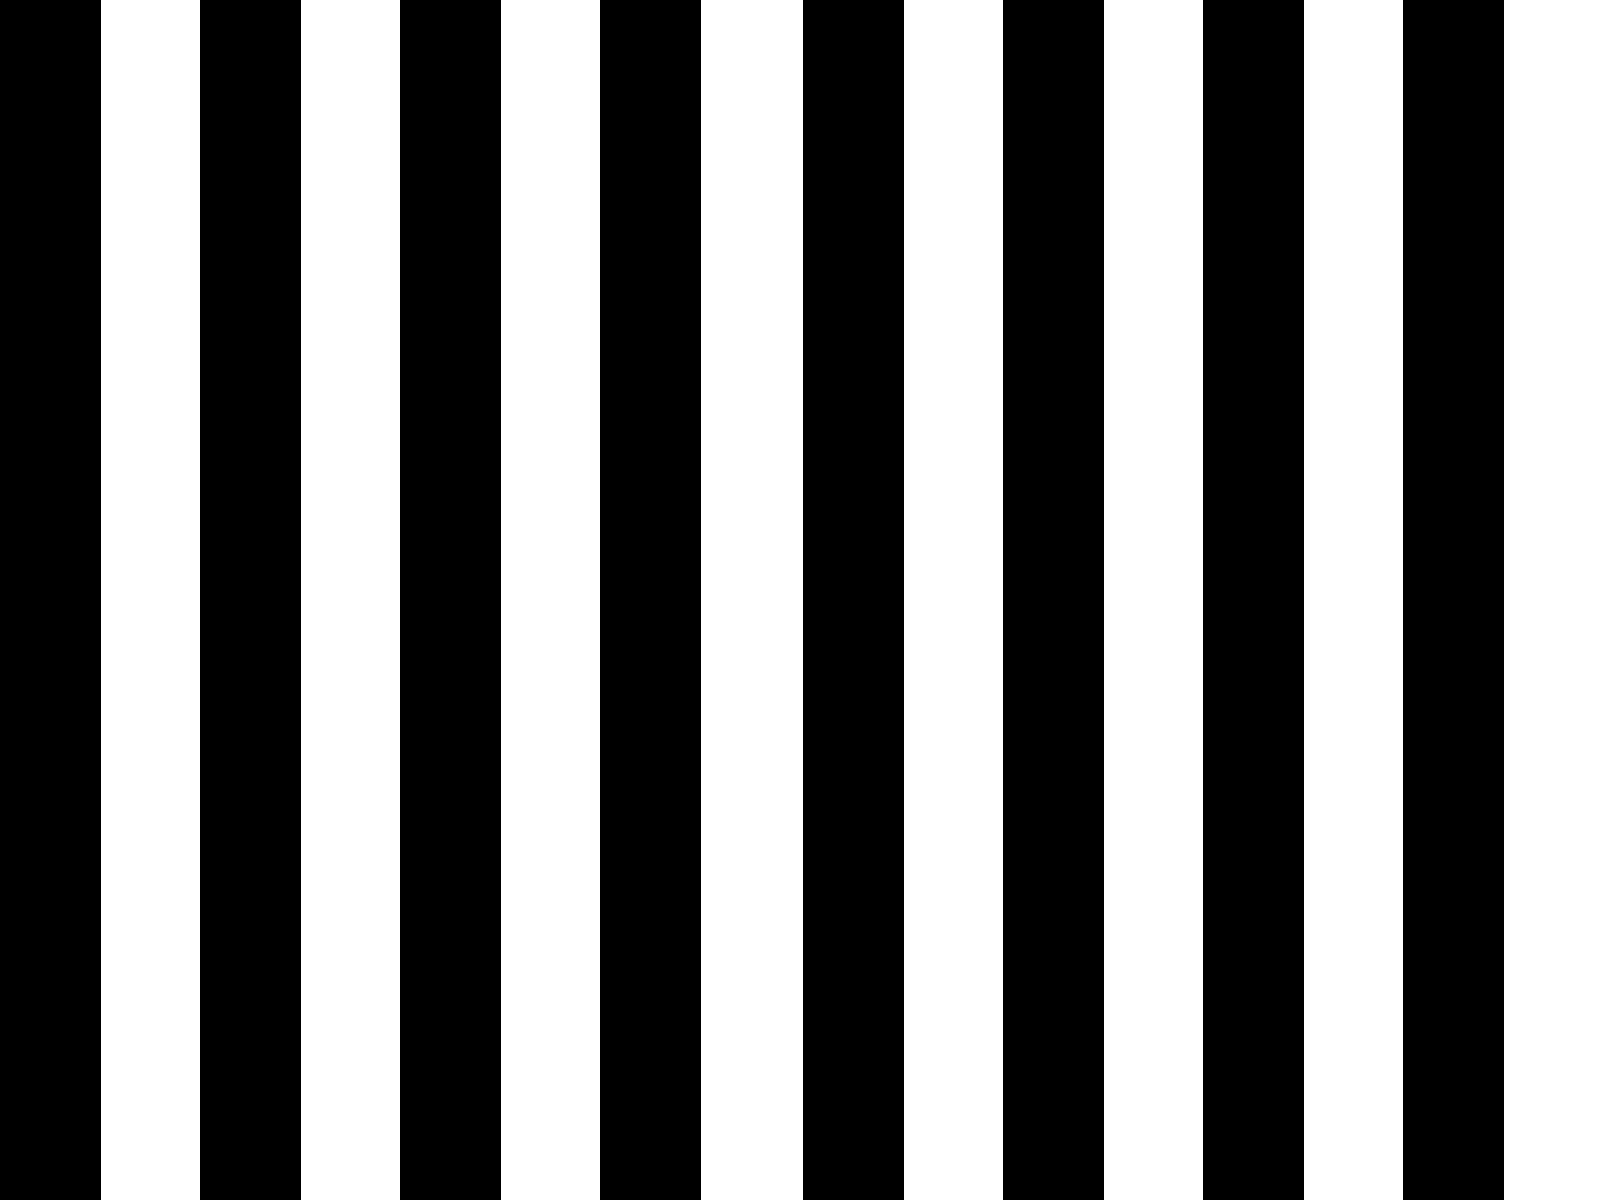
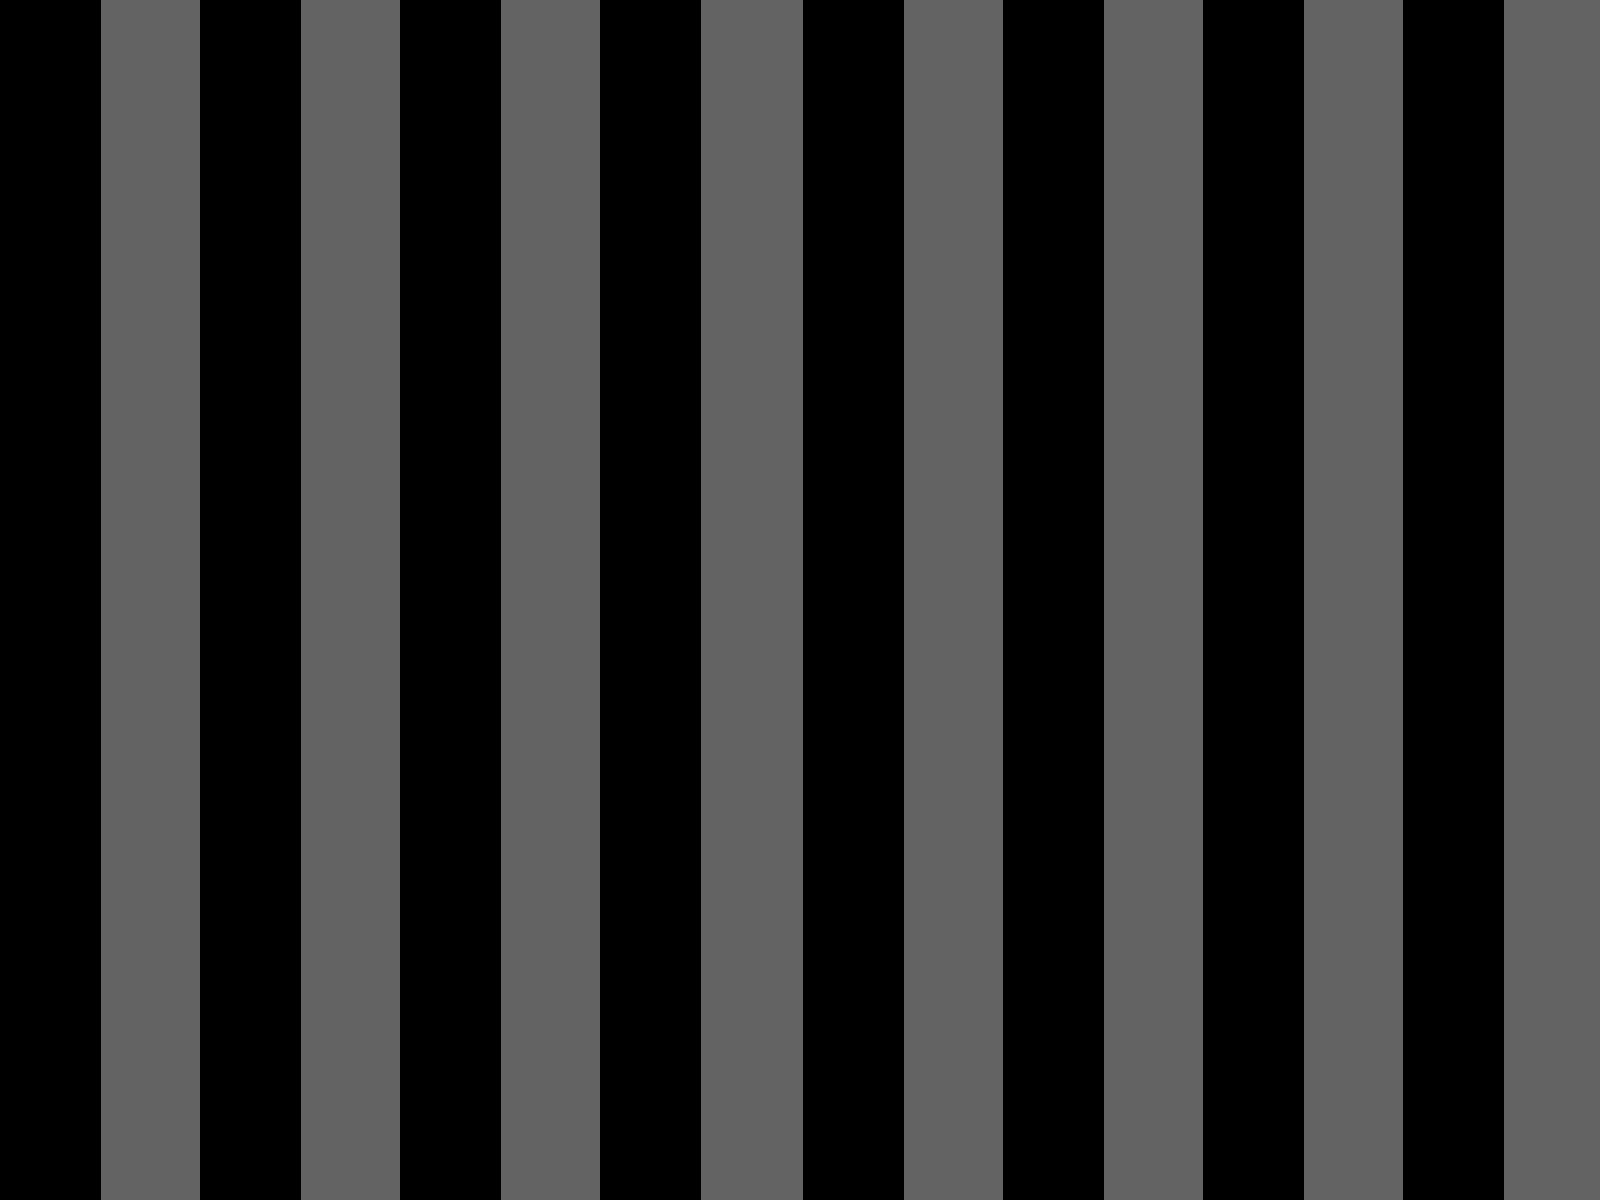
created a first preview of the scoring system (it may be improved in the next commits) and changed the background image

diff --git a/src/game/scoring.cpp b/src/game/scoring.cpp
@@ -1,0 +1,89 @@
+
+
+/*
+*
+*	Copyright (C)  Luxon Jean-Pierre
+*	gumichan01.olympe.in
+*
+*
+*	Luxon Jean-Pierre (Gumichan01)
+*	luxon.jean.pierre@gmail.com
+*
+*/
+
+/**
+*	@file scoring.cpp
+*	@brief The scoring file
+*	@author Luxon Jean-Pierre(Gumichan01)
+*	@version 0.2
+*	@date September 14th, 2014
+*
+*
+*/
+
+#include "scoring.h"
+#include "../engine/LX_graphics.h"
+#include "../engine/LX_ttf.h"
+
+#include <string>
+#include <iostream>
+#include <sstream>
+
+
+void Score::display(void)
+{
+    std::ostringstream score_sentence;  // The output string
+
+    std::string score_str;              // The score string
+    std::string score_val;              // The score value
+
+    SDL_Rect pos_score_str = {1,1,1,1};
+    SDL_Rect pos_score_val = {1,32,1,1};
+
+    score_sentence << "Score";
+    score_str = score_sentence.str();
+    score_sentence.str("");
+    score_sentence << current_score;
+    score_val = score_sentence.str();
+
+    // Load the current instances of LX_TTF and LX_graphics
+    LX_ttf *tmp_ttf = LX_ttf::getInstance();
+    LX_graphics *tmp_graph = LX_graphics::getInstance();
+
+    SDL_Surface *score_str_surface = tmp_ttf->draw_BlendedText_WithSize(score_str,VAL_SCORE_SIZE);
+    SDL_Surface *score_val_surface = tmp_ttf->draw_BlendedText_WithSize(score_val,VAL_SCORE_SIZE);
+
+    tmp_graph->put_image(score_str_surface,NULL,&pos_score_str);
+    tmp_graph->put_image(score_val_surface,NULL,&pos_score_val);
+
+}
+
+
+
+
+
+
+
+
+
+
+
+
+
+
+
+
+
+
+
+
+
+
+
+
+
+
+
+
+
+

diff --git a/src/game/scoring.h b/src/game/scoring.h
@@ -1,0 +1,85 @@
+#ifndef SCORING_H_INCLUDED
+#define SCORING_H_INCLUDED
+
+
+
+/*
+*
+*	Copyright (C)  Luxon Jean-Pierre
+*	gumichan01.olympe.in
+*
+*
+*	Luxon Jean-Pierre (Gumichan01)
+*	luxon.jean.pierre@gmail.com
+*
+*/
+
+/**
+*	@file scoring.h
+*	@brief The scoring file header
+*	@author Luxon Jean-Pierre(Gumichan01)
+*	@version 0.2
+*	@date September 14th, 2014
+*
+*
+*/
+
+#define VAL_SCORE_SIZE 24
+
+class Score
+{
+
+    unsigned int previous_score;
+    unsigned int current_score;
+    unsigned int total_score;
+
+
+    public:
+
+    Score(unsigned int ps)
+    {
+        previous_score = ps;
+        current_score = 0;
+        total_score = previous_score;
+
+    }
+
+    void notify(int newScore)
+    {
+        current_score += newScore;
+        total_score += newScore;
+    }
+
+    void display(void);
+
+    unsigned int get_prev_score(){return previous_score;}
+    unsigned int get_cur_score(){return current_score;}
+    unsigned int get_total_score(){return total_score;}
+
+
+    ~Score(){}
+
+};
+
+
+
+
+
+
+
+
+
+#endif // SCORING_H_INCLUDED
+
+
+
+
+
+
+
+
+
+
+
+
+

diff --git a/src/game/Game.h b/src/game/Game.h
@@ -50,6 +50,7 @@
 #include "../entities/Missile.h"
 
 #include "background.h"
+#include "scoring.h"
 
 #define FRAMERATE 33.000    // the desired framerate
 #define SECOND 1000.000     // One second in millisecond
@@ -73,6 +74,9 @@ class Game{
 
     //The background image of the game
     Background *bg;
+
+    //Scoring system
+    Score *score;
 
     //The limits
     int game_Xlimit;
@@ -99,7 +103,7 @@ class Game{
         audio_engine = new LX_Audio();
 
         player1 = NULL;
-
+        score = new Score(0);
     }
 
     public:
@@ -117,11 +121,12 @@ class Game{
     bool input();
 
     void addEnemyMissile(Missile * m);
-    void addPlayerMissile(Missile *m);
+    void addPlayerMissile(Missile * m);
 
 
     ~Game()     ///@todo destroy all instances in the vectors
     {
+        delete score;
         delete player1;
         delete audio_engine;
         delete physics_engine;

diff --git a/src/game/Game.cpp b/src/game/Game.cpp
@@ -277,6 +277,11 @@ bool Game::play()
         // Enemies
         for(std::vector<Enemy *>::size_type j = 0; j != enemies.size();j++)
         {
+            if(enemies[j]->killed())
+            {
+                score->notify(enemies[j]->getMAX_HP() + enemies[j]->getATT() + enemies[j]->getDEF());
+            }
+
             if(enemies[j]->isDead())
             {
                 delete enemies[j];
@@ -344,8 +349,10 @@ bool Game::play()
             }
         }
 
+        // Display text
+        score->display();
+        //update HUD
 
-        //graphics_engine->put_image(text,NULL,&posT);
 
         graphics_engine->update();
 

diff --git a/src/entities/Character.h b/src/entities/Character.h
@@ -68,6 +68,7 @@ class Character: public Entity{
 
     unsigned int laser_delay;
 
+    bool wasKilled;
 
     public :
 
@@ -103,7 +104,7 @@ class Character: public Entity{
 
     void receive_damages(unsigned int attacks);
     virtual Missile * shoot(MISSILE_TYPE m_type) = 0;
-
+    void kill(void);
 
     // Getters
 
@@ -114,6 +115,8 @@ class Character: public Entity{
     unsigned int getATT(){return attack_val;}
 
     unsigned int getDEF(){return shield;}
+
+    bool killed(){return wasKilled;}
 
     //Setters
 

diff --git a/src/entities/Enemy.h b/src/entities/Enemy.h
@@ -69,6 +69,7 @@ class Enemy: public Character{
     {
         box = {x,y,w,h};
         reference_time = SDL_GetTicks();
+        wasKilled = false;
     }
 
 
@@ -79,11 +80,12 @@ class Enemy: public Character{
         box = {rect->x,rect->y,rect->w,rect->h};
         reference_time = SDL_GetTicks();
         delay_missile = 2000;
+        wasKilled = false;
     }
 
 
     Missile * shoot(MISSILE_TYPE m_type);
-    void move();
+    void move(void);
 
     void strategy(void);
 

diff --git a/src/entities/Enemy.cpp b/src/entities/Enemy.cpp
@@ -106,7 +106,7 @@ Missile * Enemy::shoot(MISSILE_TYPE m_type)
 
 
 
-void Enemy::move()
+void Enemy::move(void)
 {
     position.x += speed.speed_X;
     position.y += speed.speed_Y;
@@ -116,7 +116,7 @@ void Enemy::move()
 }
 
 
-void Enemy::strategy()
+void Enemy::strategy(void)
 {
 
     if(still_alive)
@@ -135,7 +135,6 @@ void Enemy::strategy()
     }
 
 }
-
 
 
 

diff --git a/src/entities/Character.cpp b/src/entities/Character.cpp
@@ -53,7 +53,7 @@ void Character::receive_damages(unsigned int attacks)
 
         if(health_point == 0)
         {
-            die();
+            kill();
         }
 
     }
@@ -67,6 +67,11 @@ void Character::setHP(unsigned int newHP)
 }
 
 
+void Character::kill(void)
+{
+    wasKilled = true;
+    die();
+}
 
 
 
